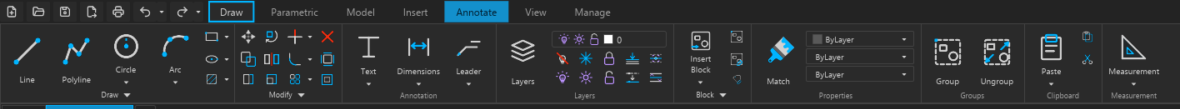
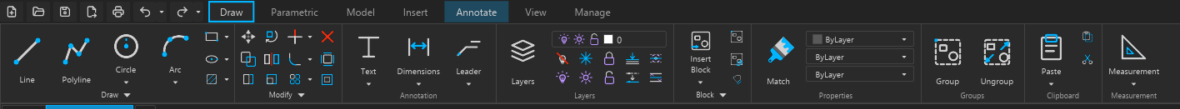
style(ribbon): tint, rather than fill, the tab holding the running command
A full-strength fill on a large tab header read louder than the selected
tab's outline. A faint wash of the same blue still points at the tab
without looking selected.

Changed region(s): [[0.3661, 0.0, 0.4576, 0.2202]]

diff --git a/src/ui/ribbon/mod.rs b/src/ui/ribbon/mod.rs
@@ -521,8 +521,9 @@ impl Ribbon {
         // The quick-access flow and the tabs flow each flex-wrap; WrapBar stacks
         // them so a wrapped tab never shares a row with a quick-access button.
 
-        // A running command whose button is on another tab lights that tab's
-        // header in the button's own blue, pointing at where the button lives.
+        // A running command whose button is on another tab tints that tab's
+        // header with a faint wash of the button's blue, pointing at where the
+        // button lives without competing with the selected tab's outline.
         let holding_tab = self.tab_holding_active_tool();
         let tab_items = self.modules.iter().enumerate().fold(
             Vec::<Element<'_, Message>>::new(),
@@ -562,9 +563,15 @@ impl Ribbon {
                             background: (is_active
                                 || holds_tool
                                 || matches!(status, button::Status::Hovered))
-                                .then_some(Background::Color(pair.color)),
-                            text_color: if is_active || holds_tool {
+                                .then_some(Background::Color(if holds_tool && !is_active {
+                                    pair.color.scale_alpha(0.35)
+                                } else {
+                                    pair.color
+                                })),
+                            text_color: if is_active {
                                 pair.text
+                            } else if holds_tool {
+                                palette.background.base.text
                             } else if is_contextual {
                                 accent.color
                             } else {
